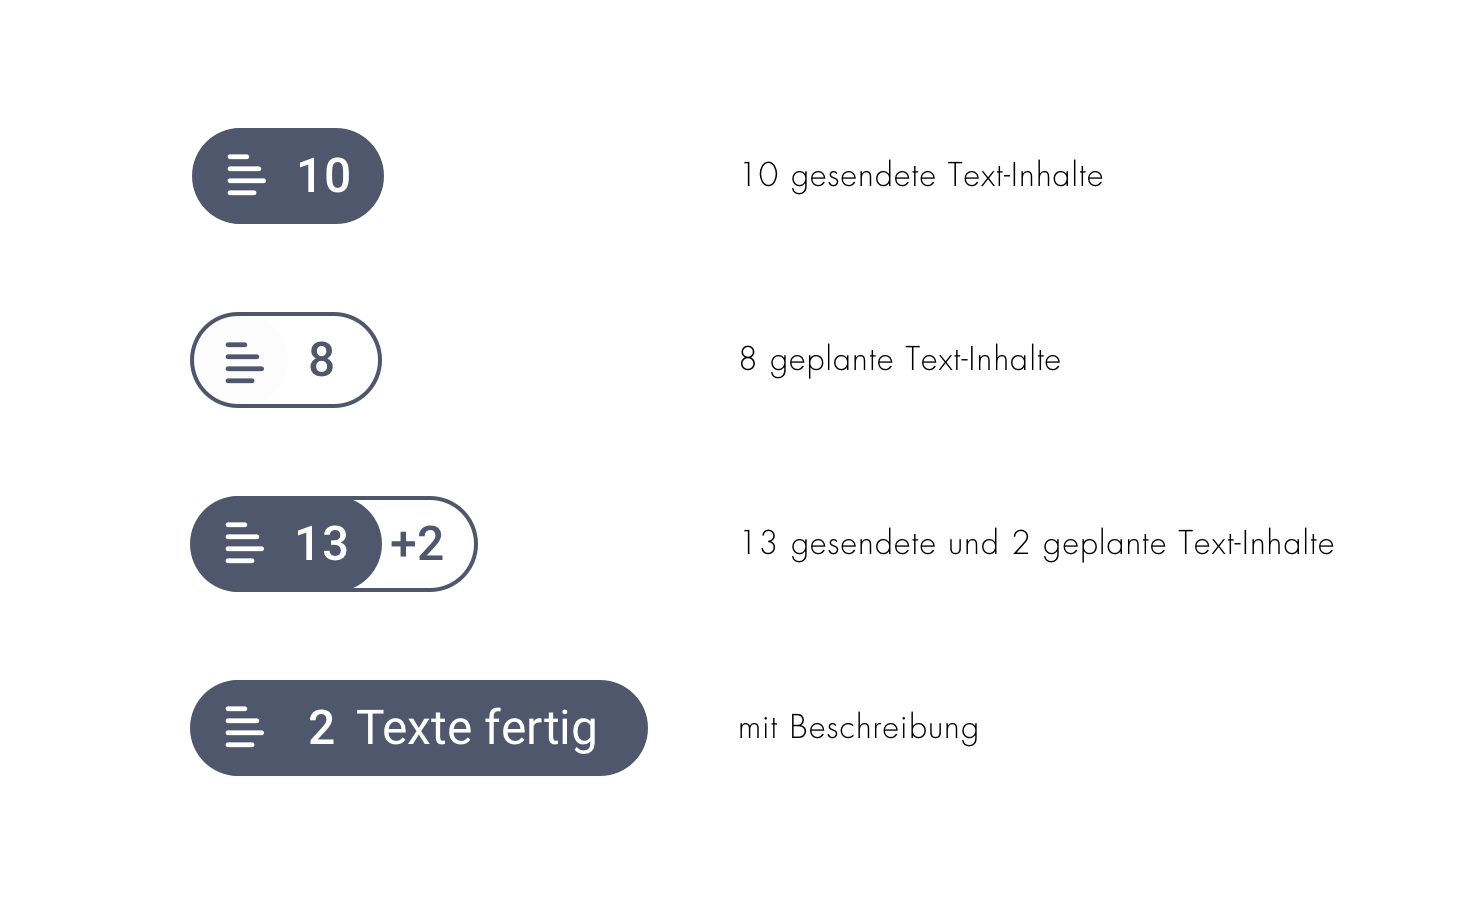
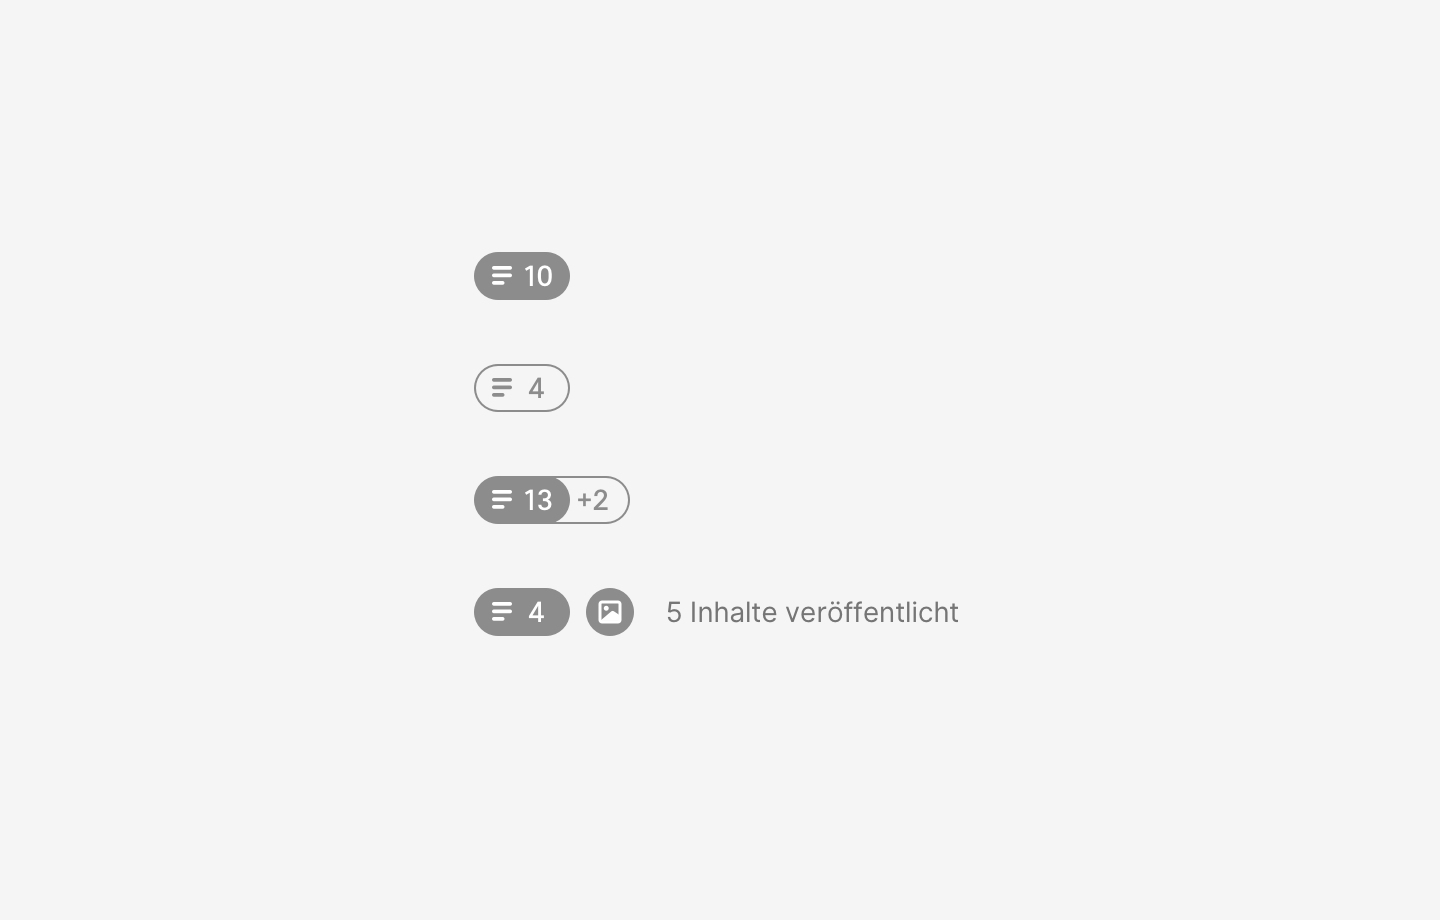
update berichterstattung

diff --git a/docs/03_Werteinheiten/Berichterstattung/berichterstattung.md b/docs/03_Werteinheiten/Berichterstattung/berichterstattung.md
@@ -1,4 +1,10 @@
-![](./berichterstattung.png)
+![](./Berichterstattung.png)
+
+![](./Spezifikation.png)
+**1** 10 gesendete Textinhalte  
+**2** 8 geplante Textinhalte  
+**3** 13 gesendete und 2 geplante Textinhalte  
+**4** mit Beschreibung und Fotoinhalt  
 
 ## Beispiel
 
